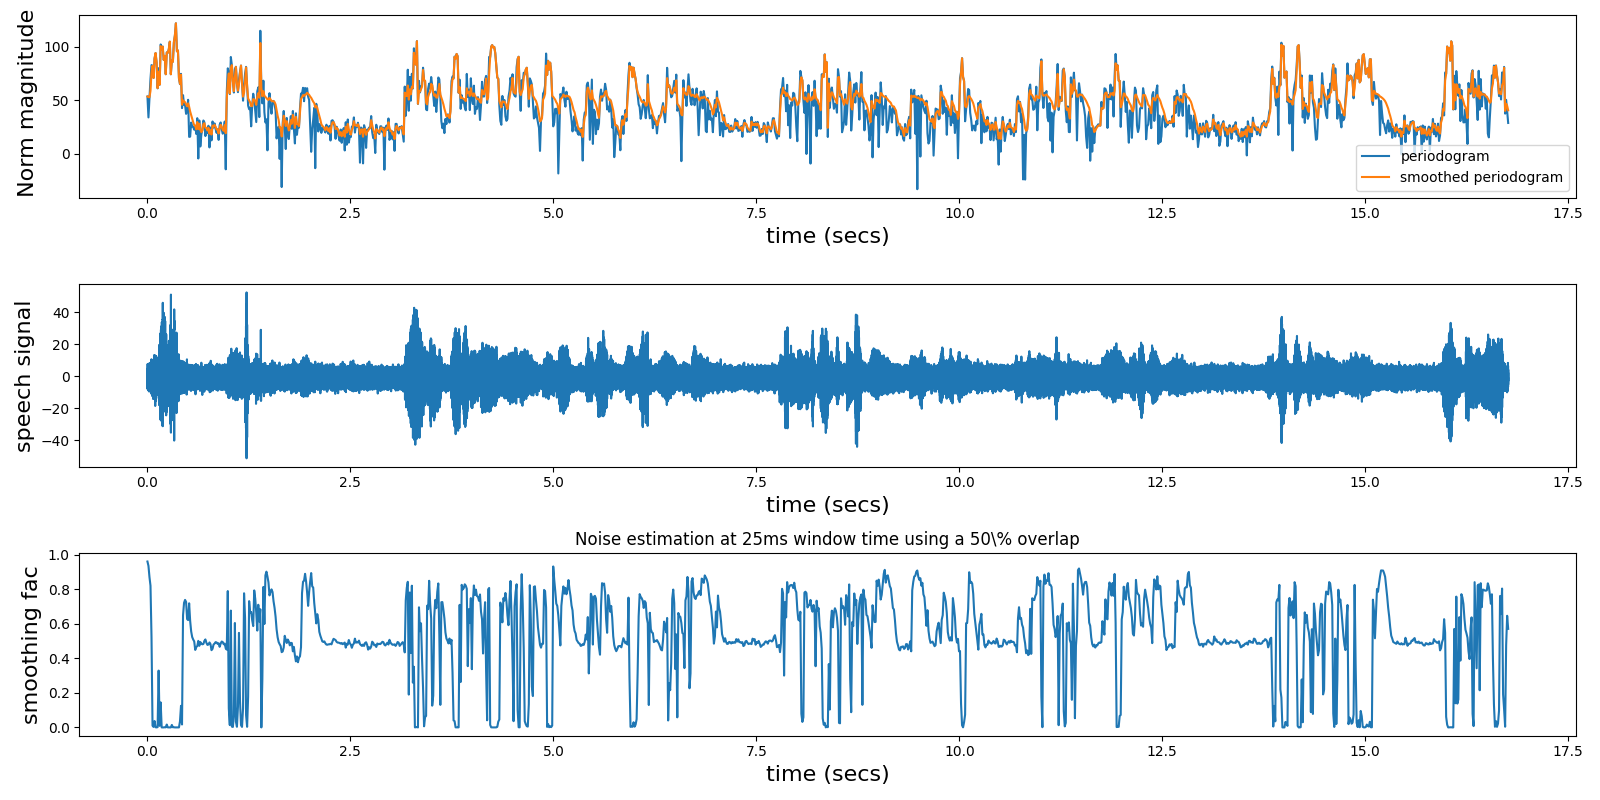
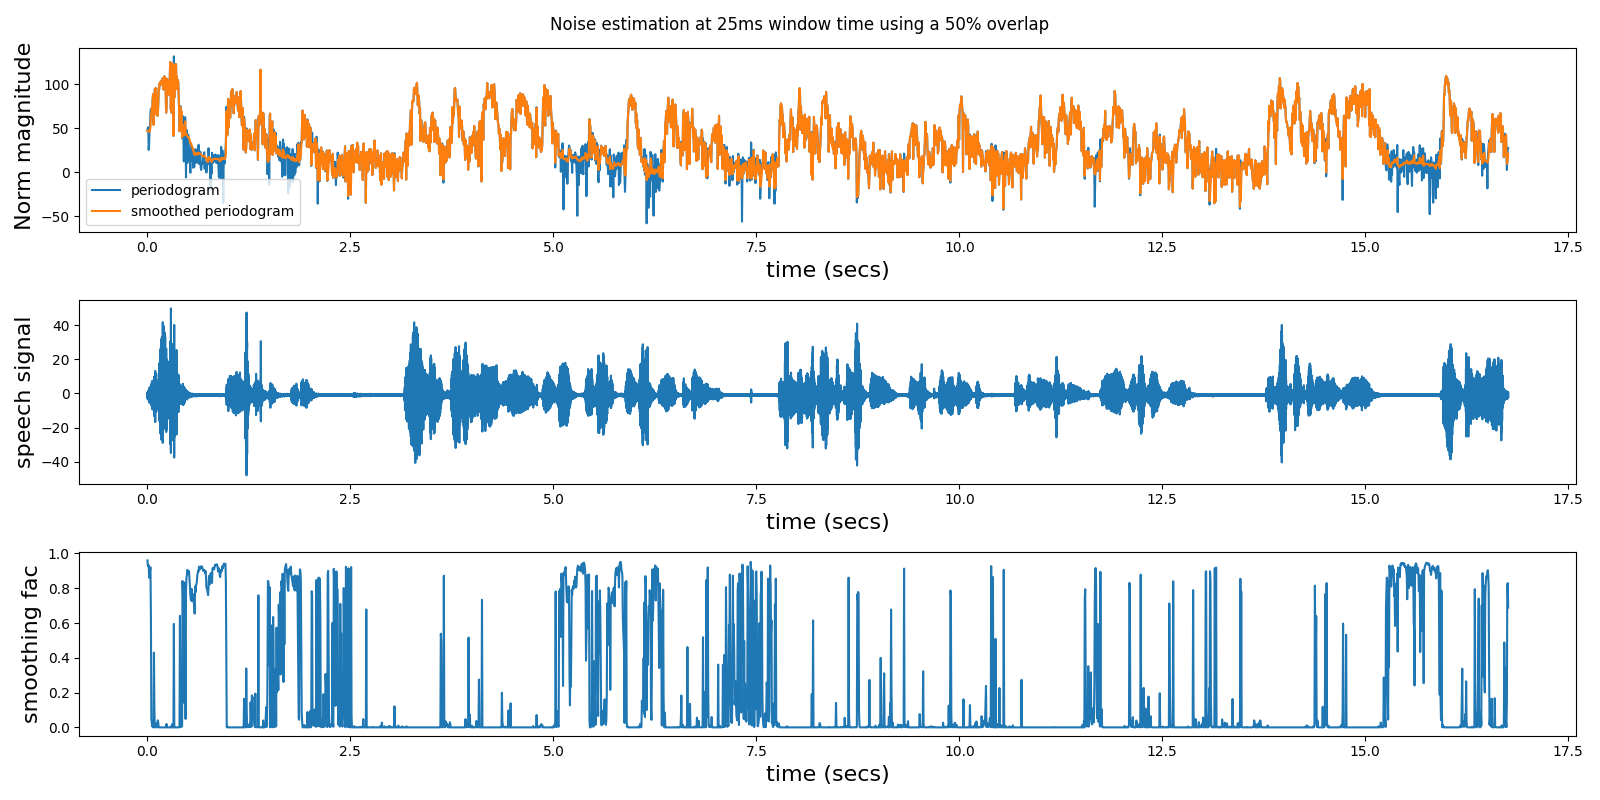
bug fixed

diff --git a/example.py b/example.py
@@ -87,7 +87,8 @@ def smoothing_val(sig, samp_rate, spectrogram, tlength, time, domain=0, filename
         label_ax(ax3, x_axis[domain], 'smoothing fac')
 
         freq_ind = 2500*nfft*2//samp_rate
-        plt.title("Noise estimation at 25ms window time using a 50% overlap")
+        fig.suptitle(
+            "Noise estimation at 25ms window time using a 50% overlap")
         ax1.plot(
             ftime, 20*np.log(spectrogram[:, freq_ind]), label='periodogram')
         ax1.plot(
@@ -115,7 +116,7 @@ def smoothing_val(sig, samp_rate, spectrogram, tlength, time, domain=0, filename
     plt.show()
 
 
-def validation(spectrogram, true_noise, estimated_noise, stime, samp_rate, filename="validation"):
+def validation(spectrogram, true_noise, estimated_noise, stime, samp_rate, filename="est_validation"):
     """Validates the algorithm using the minimum squared error analysis to measure the accuracy of the estimation
     Produces two subplots of the noise estimate alongside the signal periodogram and the true noise versus the estimated noise"""
     # create grid for data presentation
@@ -129,10 +130,12 @@ def validation(spectrogram, true_noise, estimated_noise, stime, samp_rate, filen
     (niteration, nfft) = spectrogram.shape
     time = np.linspace(0, stime, niteration)
 
-    # FIXME compute mean squared error (MSE)
     # mse = mean of the variance of the the true and estimated noise data set
-    var = np.sum((true_noise - estimated_noise) ** 2,
+    var = np.sum((estimated_noise - true_noise) ** 2,
                  axis=1) / np.sum(true_noise, axis=1)
+    # normalize mse array
+    ref = var.copy()
+    var = (var - ref.min()) / (ref.max() - ref.min())
     mse = np.mean(var)
 
     estimated_noise = 10*np.log(estimated_noise)
@@ -140,9 +143,8 @@ def validation(spectrogram, true_noise, estimated_noise, stime, samp_rate, filen
     spectrogram = 20*np.log(spectrogram)
 
     freq_ind = 2500 * nfft * 2 // samp_rate
-    print('The estimated noise is ', estimated_noise[:, freq_ind])
-    plt.title(
-        'Objective measures of the estimated noise using MSE. The MSE calculated is {}'.format(mse))
+    fig.suptitle(
+        'Objective measures of the estimated noise using mean squared error (MSE). The MSE calculated is {}'.format(mse))
     ax1.plot(time, spectrogram[:, freq_ind], label='Periodogram')
     ax1.plot(time, estimated_noise[:, freq_ind], label='Estimated noise')
 
@@ -177,7 +179,7 @@ if __name__ == "__main__":
 
     # short-term fourier transform
     my_stft = ms_estnoise.stft()
-    spectrogram = my_stft.compute(b, samplerate, nfft, nfft/samplerate)
+    spectrogram = my_stft.compute(noisy_sig, samplerate, nfft, nfft/samplerate)
     true_noise = my_stft.compute(noise_sig, samplerate, nfft, nfft/samplerate)
 
     # noise estimation

diff --git a/ms_estnoise.py b/ms_estnoise.py
@@ -45,8 +45,8 @@ class stft:
 
 
 def gen_wgnoise(sig):
-    # snr of 5 dB
-    snr_lin = 10**(5/10)
+    # snr of 40 dB
+    snr_lin = 10**(40/10)
     sig_pow = sum([s**2 for s in sig])/len(sig)
     amp = np.sqrt(sig_pow/snr_lin)
     return stats.norm(0, amp)
@@ -114,10 +114,11 @@ class estnoisems:
                     bias_vec[k_mod]*B_corr
                 self.actmin_sub_vec[k_mod] = self.psd_vec[k_mod] * \
                     bias_sub_vec[k_mod]*B_corr
-            if self.subwc > 1 and self.subwc < _V:
+            if self.subwc > 0 and self.subwc < _V:
                 lmin_flag = np.logical_or(k_mod, lmin_flag)
                 P_min_u = min_complex(self.actmin_vec, P_min_u)
                 self.noise_est = P_min_u.copy()
+                self.subwc += 1
             else:
                 if self.subwc >= _V:
                     lmin_flag = np.logical_and(k_mod, lmin_flag)
@@ -134,15 +135,15 @@ class estnoisems:
                     else:
                         noise_slope_max = 10**(1.2/10)
                     lmin = np.logical_and(np.logical_and(np.logical_and(lmin_flag, np.logical_not(
-                        k_mod)), self.actmin_sub_vec < (noise_slope_max*P_min_u)), self.actmin_sub_vec > P_min_u)
+                        k_mod)), self.actmin_sub_vec < (noise_slope_max*P_min_u)), self.actmin_sub_vec < P_min_u)
                     if any(lmin):
                         P_min_u[lmin] = self.actmin_sub_vec[lmin]
                         # replace all previously stored actmin with actmin_sub
                         self.actbuff[:, lmin] = np.ones((_U, 1))*P_min_u[lmin]
                     lmin_flag[:] = 0
                     self.actmin_vec[:] = np.Inf
-                    self.subwc = 0
-                self.subwc = + 1
+                    self.actmin_sub_vec[:] = np.Inf
+                    self.subwc = 1
             x[n, :] = self.noise_est
         return x
 
